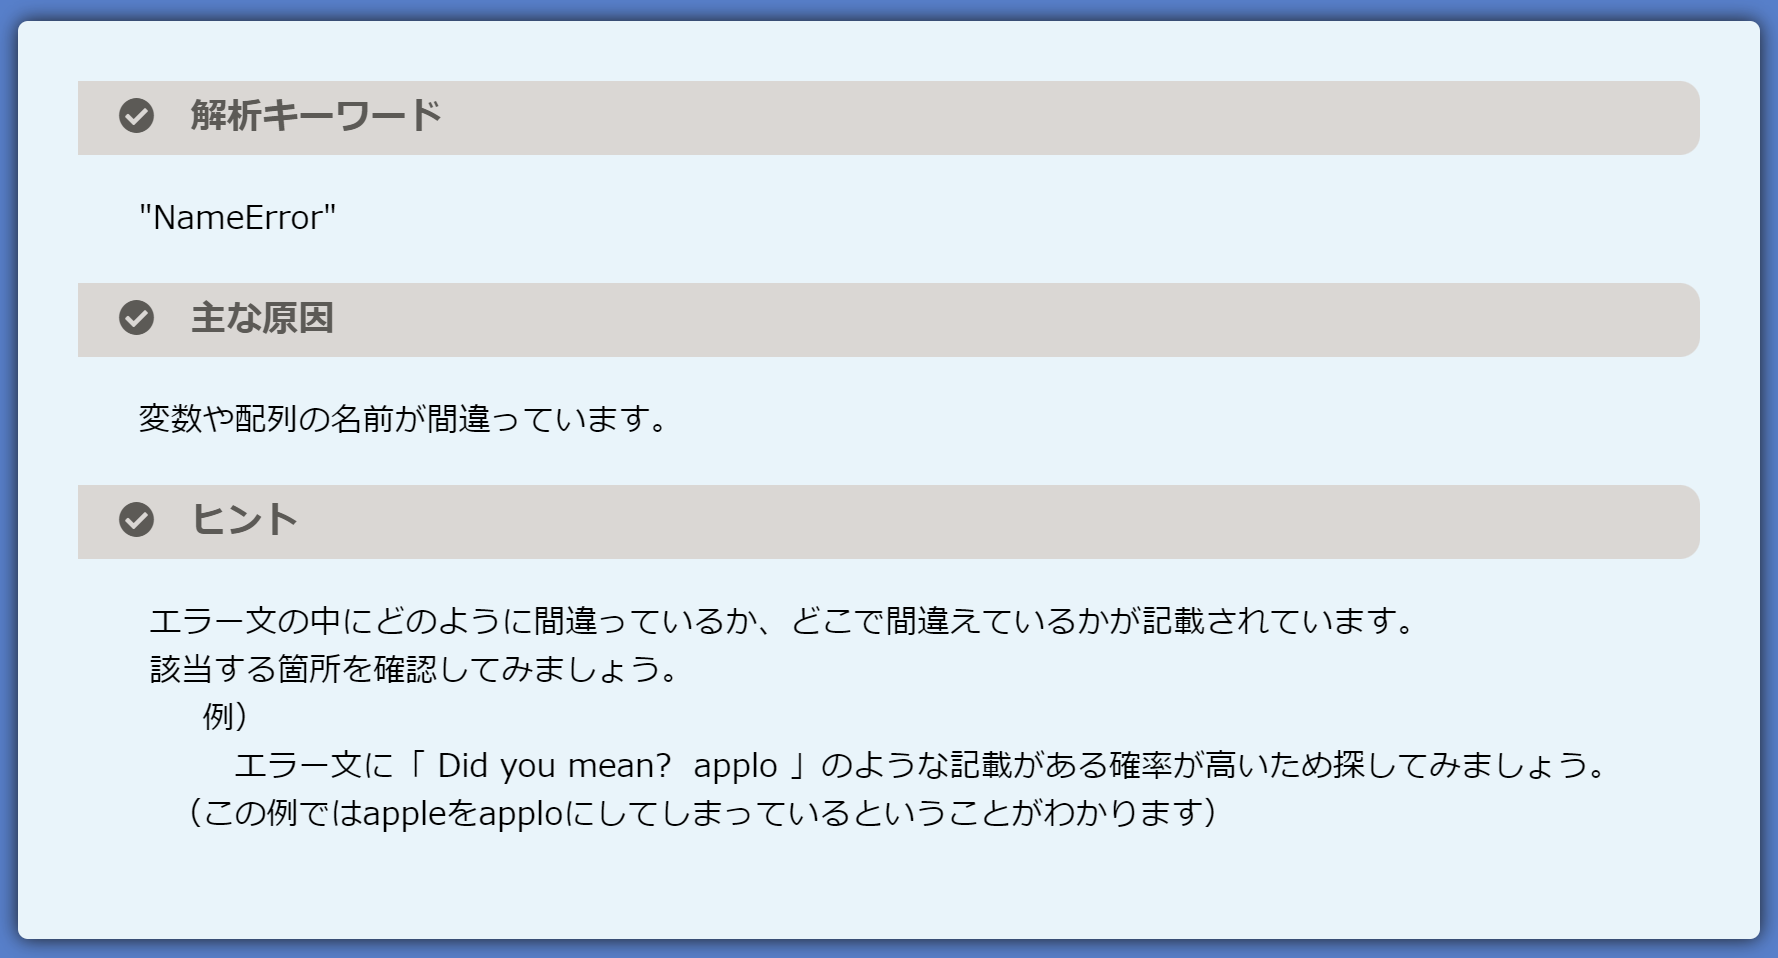
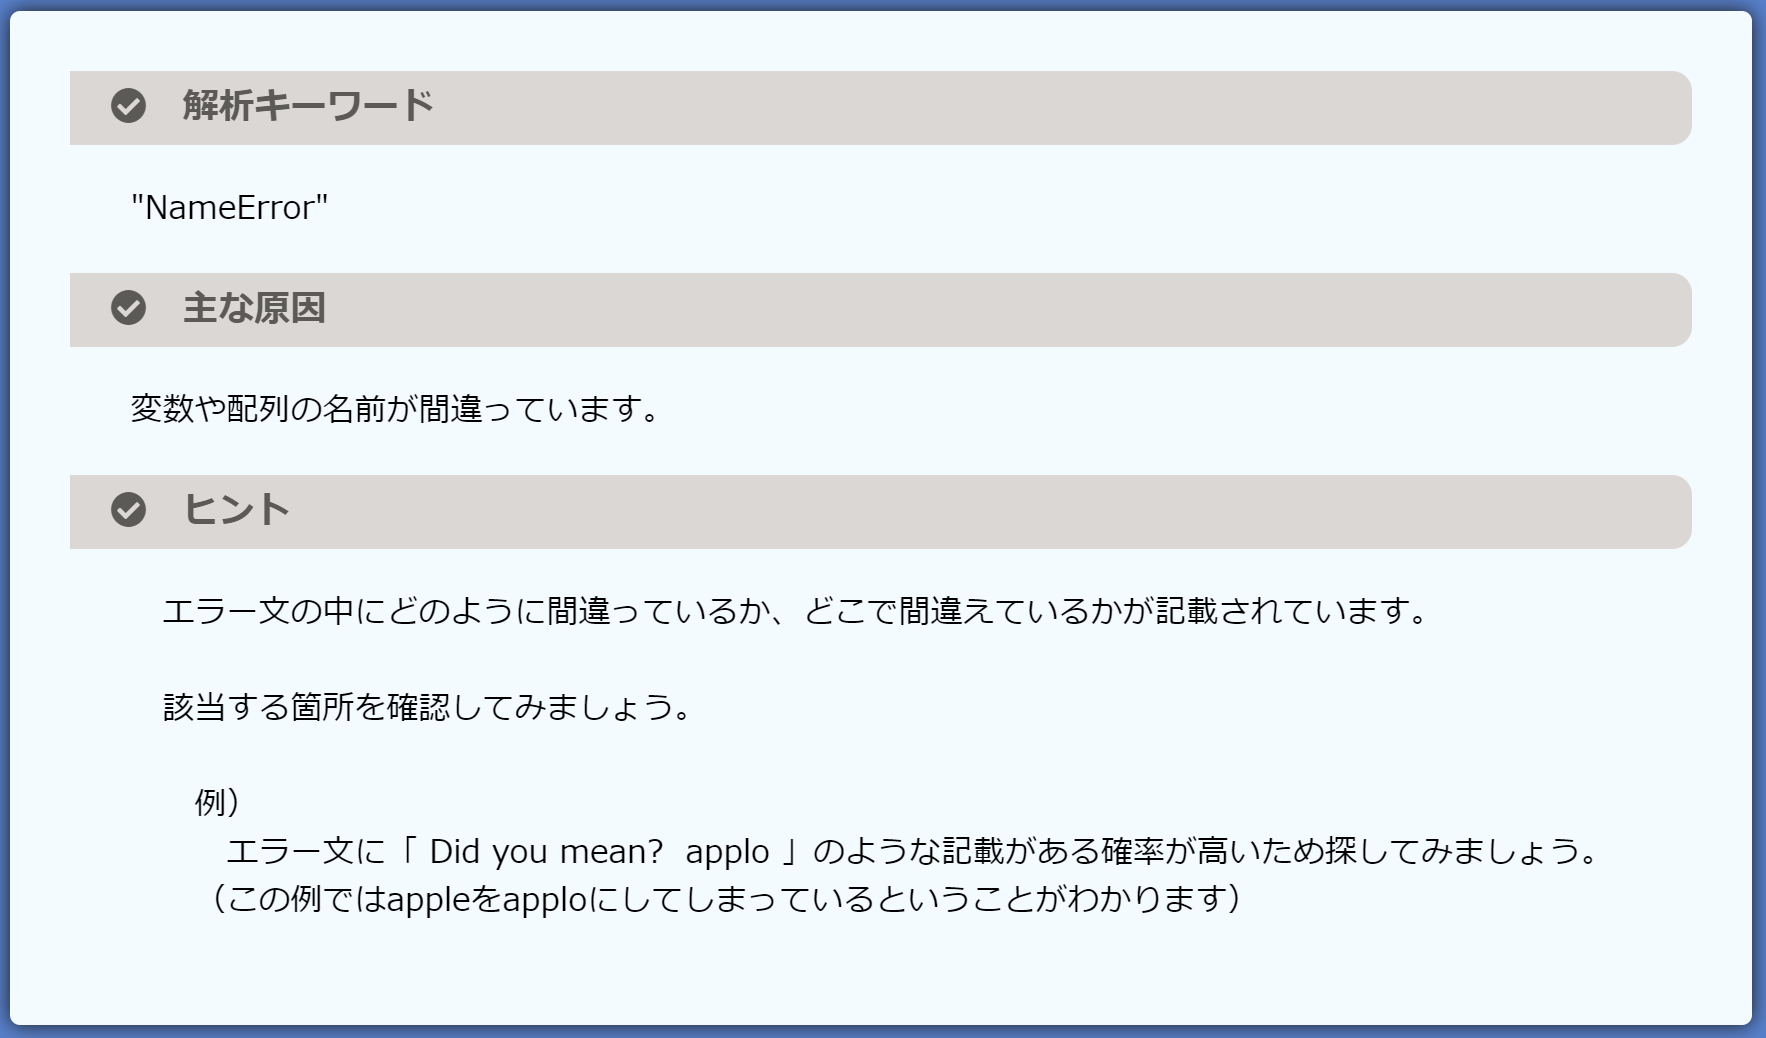
バグ修正

Changed region(s): [[0.0, 0.0, 0.9966, 0.999], [0.0934, 0.6357, 0.9032, 0.8779]]

diff --git a/app/assets/stylesheets/learns.scss b/app/assets/stylesheets/learns.scss
@@ -8,22 +8,24 @@
     .resultbox{
         width: 700px; 
         padding-top: 15px;
+        text-align: center;
     }
 
     .adjustment{
         width: 500px;
         margin: 0 auto;
+        margin-top: 2em;
+        margin-bottom: 2em;
         margin-top: 30px;
     }
 
-    .fake_btn{
-        margin-top: 20px;
+    #fake_btn{
+        width: 130px;
     }
 
     #real_btn{
         display: none;
-        width: 140px;
-        margin-top: 30px;
+        width: 130px;
     }    
 
 }
@@ -38,11 +40,6 @@
         margin-left: 30px;
     }
 
-    .fake_btn{
-        width: 140px;
-        margin-top: 30px;
-    }
-
     .q_adjustment{
         padding: 20px;
     }
@@ -53,32 +50,29 @@
 
     .next_btn_adj{
         width:120px;
-        background-color: #6862b4;
-        border-color: rgb(119, 117, 113);
-        margin-bottom: 30px;
     }
 
     .change_btn_adj{
         width: 150px;
-        background-color: #6862b4;
-        border-color: rgb(119, 117, 113);
-        margin-bottom: 30px;
     }
 
     .finish_btn_adj{
         width: 140px;
-        background-color: #6862b4;
-        border-color: rgb(119, 117, 113);
-        margin-bottom: 30px;
     }
 
     .label_adj{
         display: inline-block;
     }
 
+    #fake_btn{
+        margin-top: 30px;
+        margin-bottom: 10px;
+    }
+
     #real_btn{
         display: none;
-        margin-top: 20px;
+        margin-top: 30px;
+        margin-bottom: 10px;
     }
 }
 
@@ -149,7 +143,6 @@
     }
 
     .choices_box {
-        margin: 2em 0;
         padding: 10px 10px 10px 10px;
         background: #f1f1f1;
         box-shadow: 0 0 4px rgba(0, 0, 0, 0.22);
@@ -272,34 +265,24 @@
     }
 
     .choices_btn  {
-        height: 35px;
-        width: 100px;
-        color: rgb(252, 252, 252);
-        font-size: 16px;
-        background-color: #cac8df;
-        border: 2px solid #cac8df; 
-        border-radius: 10px;
         box-shadow: none;
     }
 
-    .fake_btn{
-        position: relative;
-        z-index: 2;
-        display: flex;
-        justify-content: space-between;
-        align-items: center;
-        margin: 0 auto;
-        padding: 0.5em 1.5em 0.5em 1em;
-        width: 100px;
+    .learn_btn{
         height: 35px;
-        font-weight: bold;
         color: rgb(252, 252, 252);
         font-size: 16px;
         background-color: #cac8df;
         border: 2px solid #cac8df; /*枠線*/
-        box-sizing: border-box; /*横幅の解釈をpadding, borderまでとする*/
-        border-radius: 10px;
-        opacity: 0.7;
+        opacity: 0.5;
     }
 
+    .learn_btn_2{  //続き、次へ、終了ボタン用
+        height: 35px;
+        color: rgb(252, 252, 252);
+        font-size: 16px;
+        background-color: #6862b4;
+        border-color: rgb(119, 117, 113);
+        margin-top: 30px;
+    }
 }

diff --git a/app/assets/stylesheets/application.scss b/app/assets/stylesheets/application.scss
@@ -326,7 +326,7 @@ nav .title_img{
   padding: 30px;
   width: 60%;
   min-width: 700px;
-  background-color: rgb(233, 244, 250);
+  background-color: rgb(244, 251, 255);
   box-shadow: 0 0 10px rgb(26, 25, 25);
   border-radius: 5px;
 }

diff --git a/app/controllers/learns_controller.rb b/app/controllers/learns_controller.rb
@@ -88,6 +88,12 @@ class LearnsController < ApplicationController
         q = learn_arr[session[:q_arr_index][session[:number]]] #問題を抽出する
         @q = order_q(q,session[:q_order],"#{@key}") #抽出した問題を並べ替えてインスタンスとする
 
+        if session[:status] == "stay_c"
+            @state = "前半"
+        else
+            @state = "後半"
+        end
+
     end
 
     def custom_q(learn_arr,key,val) #カスタム通りの問題を作成するメソッド

diff --git a/db/schema.rb b/db/schema.rb
@@ -32,6 +32,8 @@ ActiveRecord::Schema.define(version: 2022_01_27_143856) do
   end
 
   #yamlで管理しているため使用していない
+  #seedsにある"error_lists.yml"は以前DBで管理していた時のもの。
+  #現在はcontrollerで"errorList.yml"から直接取得しているので使用していない。
   # create_table "error_lists", force: :cascade do |t|
   #   t.string "err_mess"
   #   t.string "cause"
